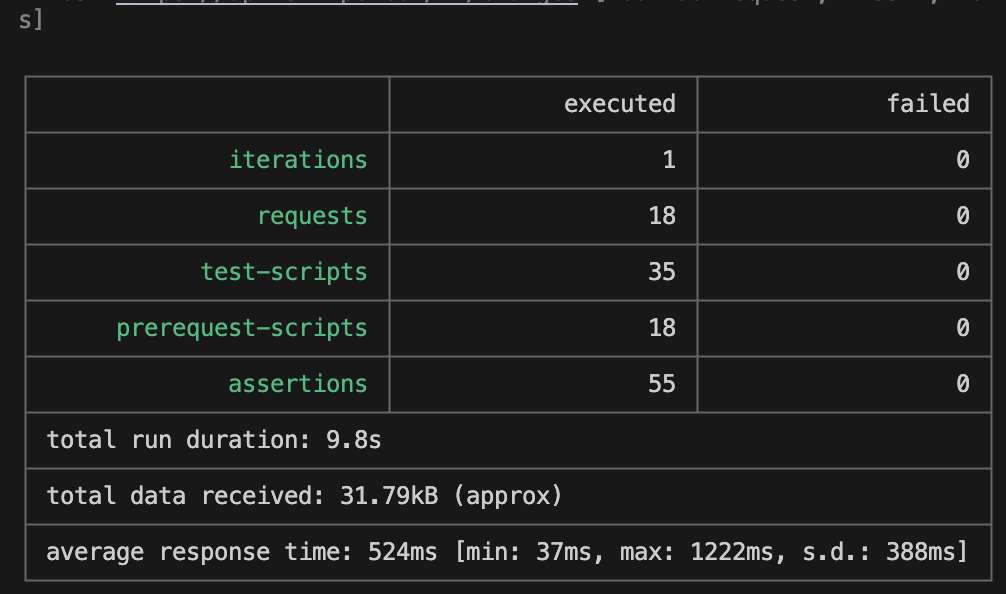
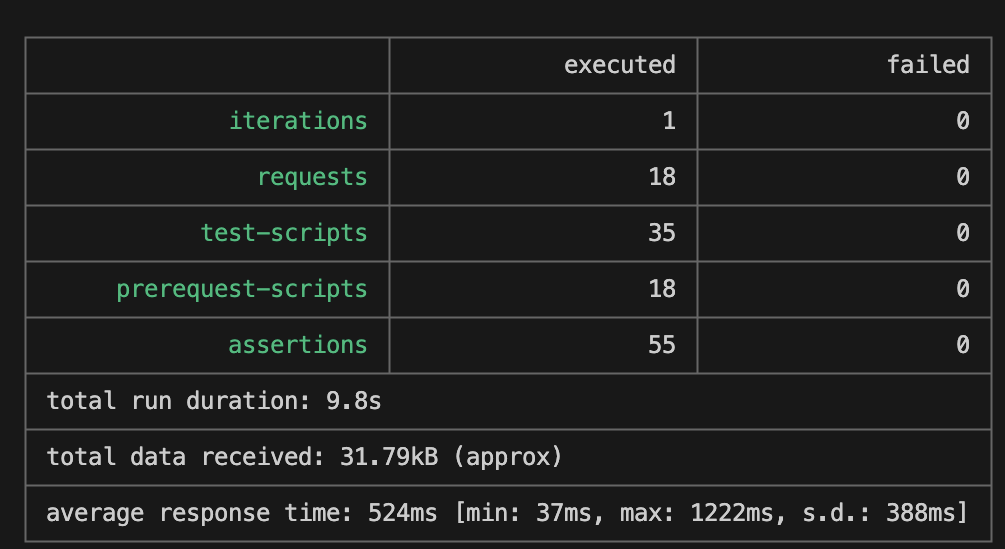
fix(index): wrap card tags on narrow screens, tidy Stripe card wording

Changed region(s): [[0.0, 0.031, 0.9871, 0.9909], [0.1234, 0.0, 0.5861, 0.031]]

diff --git a/index.html b/index.html
@@ -110,7 +110,7 @@
                     <p class="card-description">
                         REST API audit of Stripe's payment lifecycle in the sandbox — PaymentIntents, refunds,
                         auth, and error handling. Includes requirements traceability, Postman script automation,
-                        and a full-suite Newman run from a clean environment and running in Github Actions.
+                        and a full-suite Newman run from a clean environment, running in Github Actions.
                     </p>
                     <div class="project-links">
                         <span><i class="fas fa-plug"></i> API TESTS</span>

diff --git a/styles.css b/styles.css
@@ -290,11 +290,20 @@ body {
 
 .project-links {
   display: flex;
-  gap: 2rem;
+  flex-wrap: wrap;
+  /* new */
+  gap: 0.5rem 2rem;
+  /* changed: row gap, column gap */
   font-size: 0.8rem;
   color: var(--accent);
   font-weight: 700;
 }
+
+.project-links span {
+  white-space: nowrap;
+}
+
+/* new: keeps icon + label together */
 
 /* Legacy alias — kept for inner pages that still use .req-item */
 .req-item {
